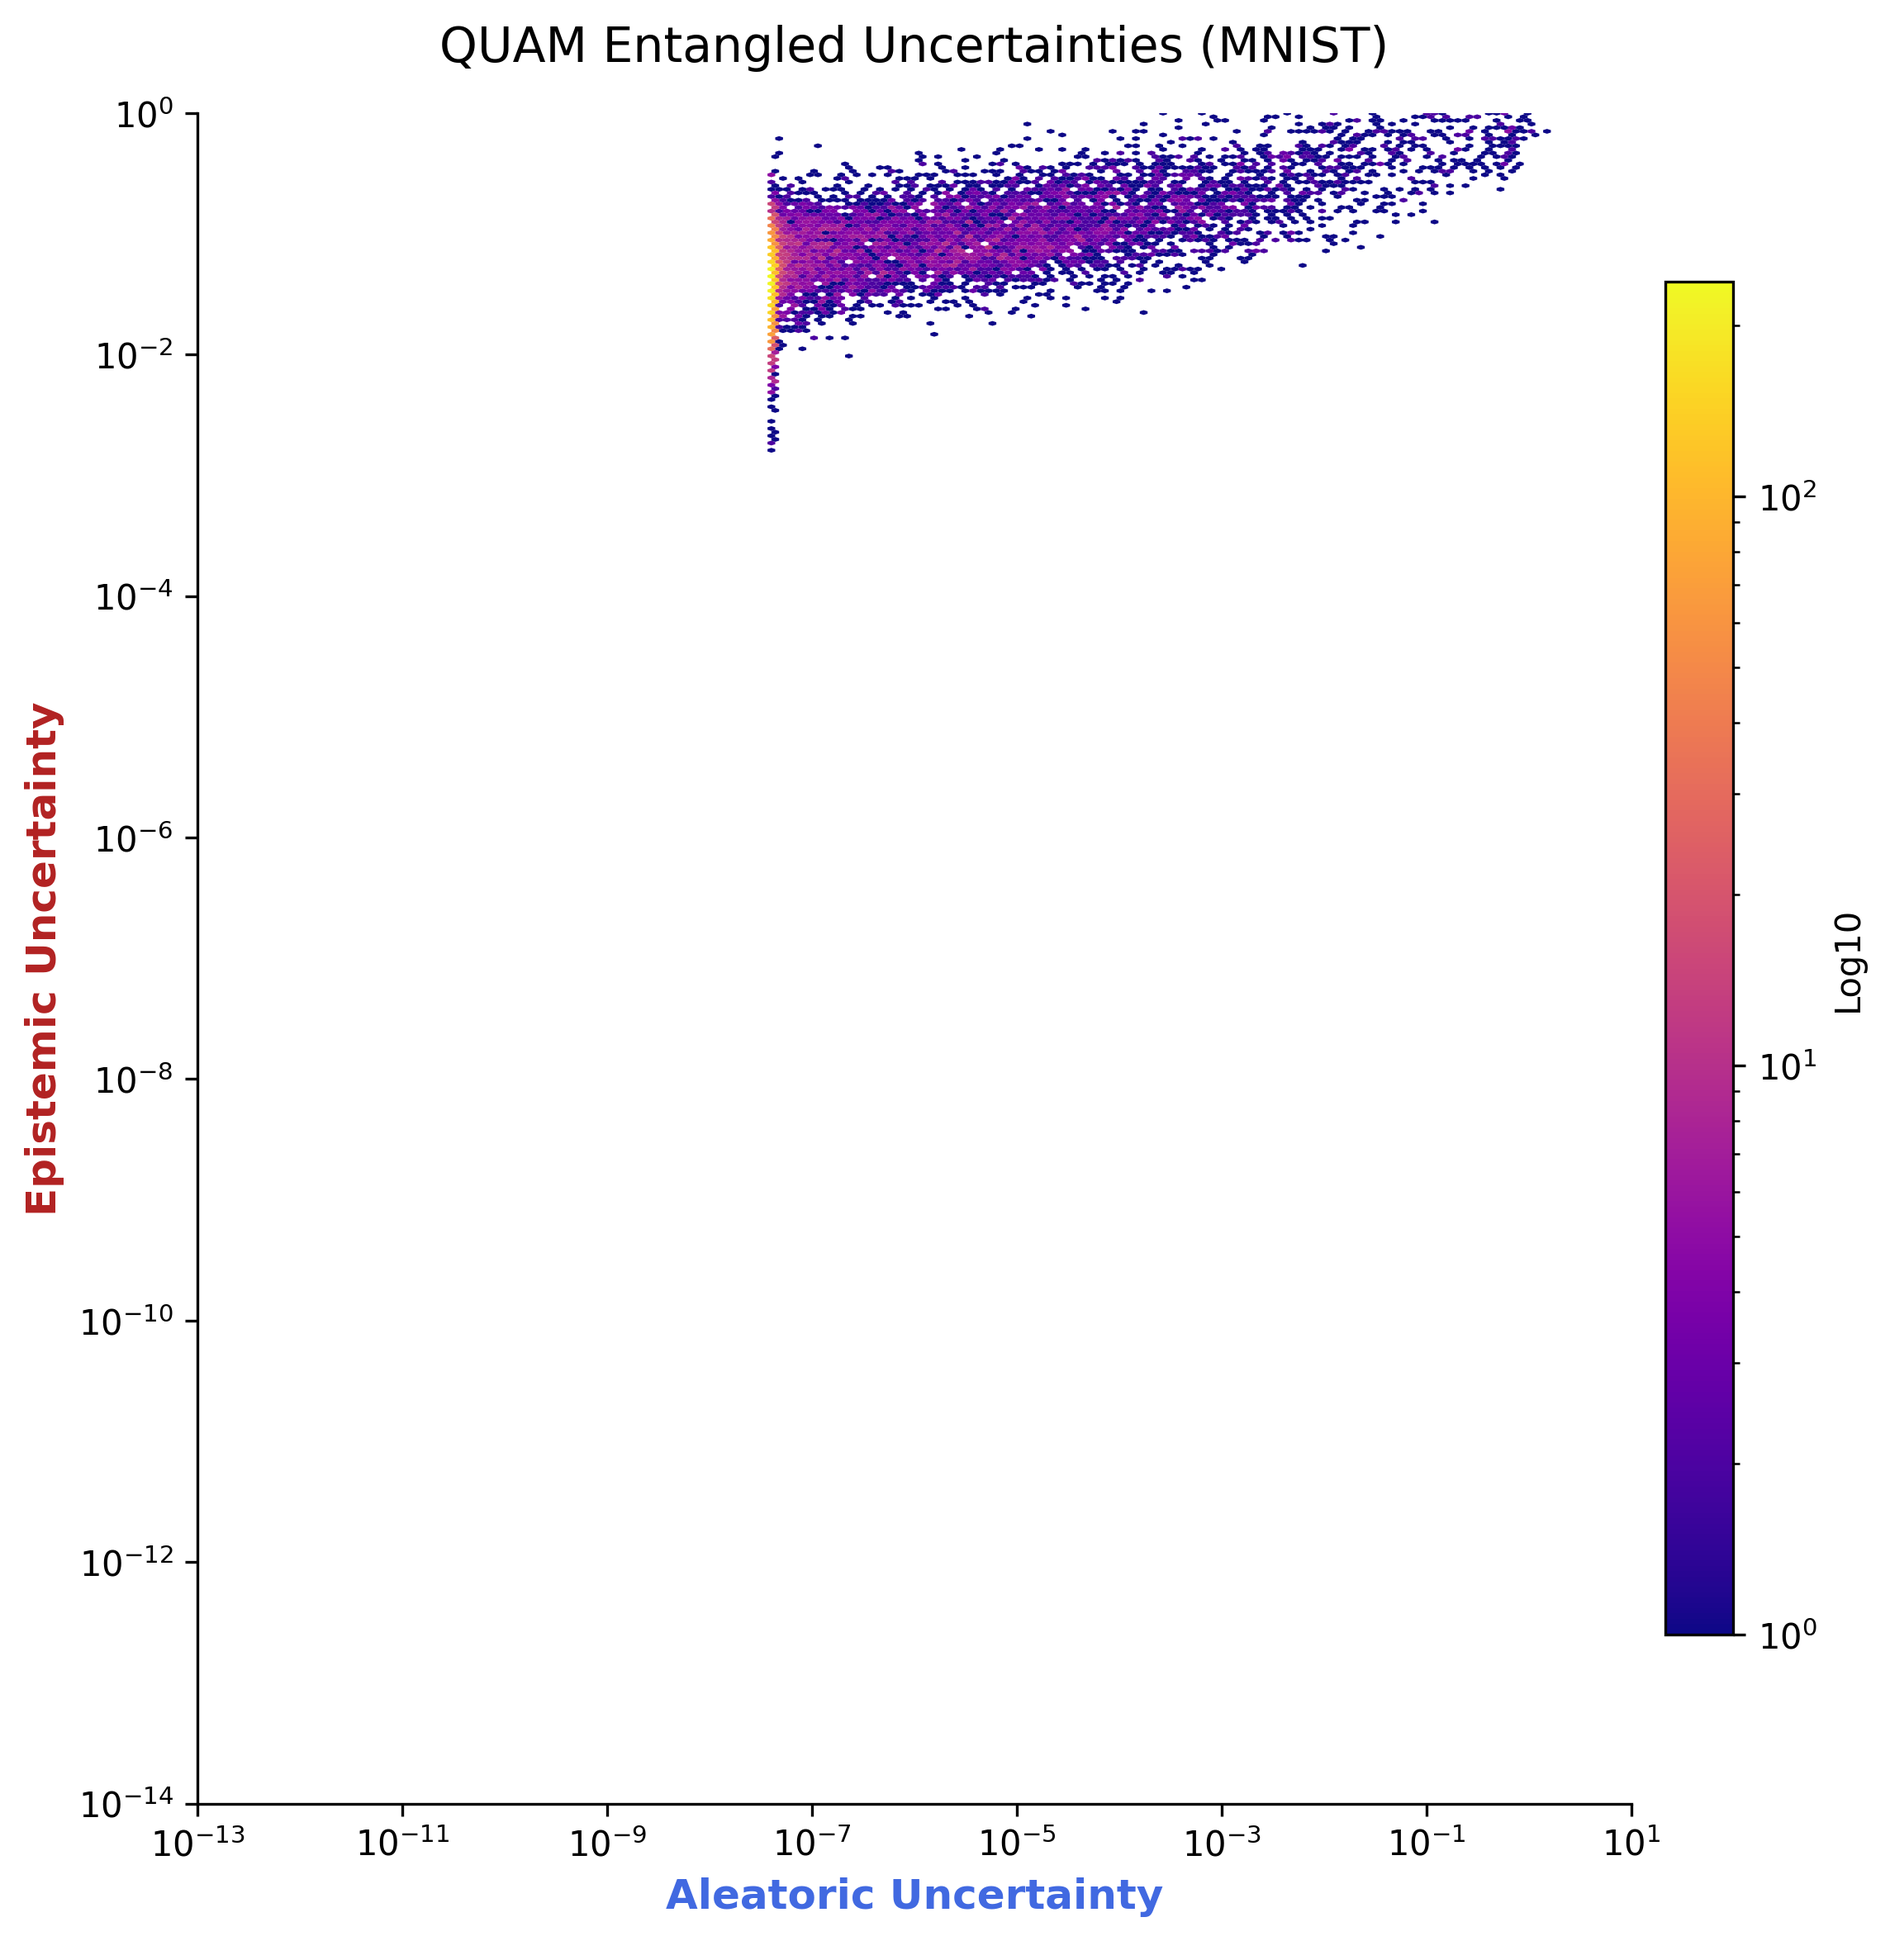
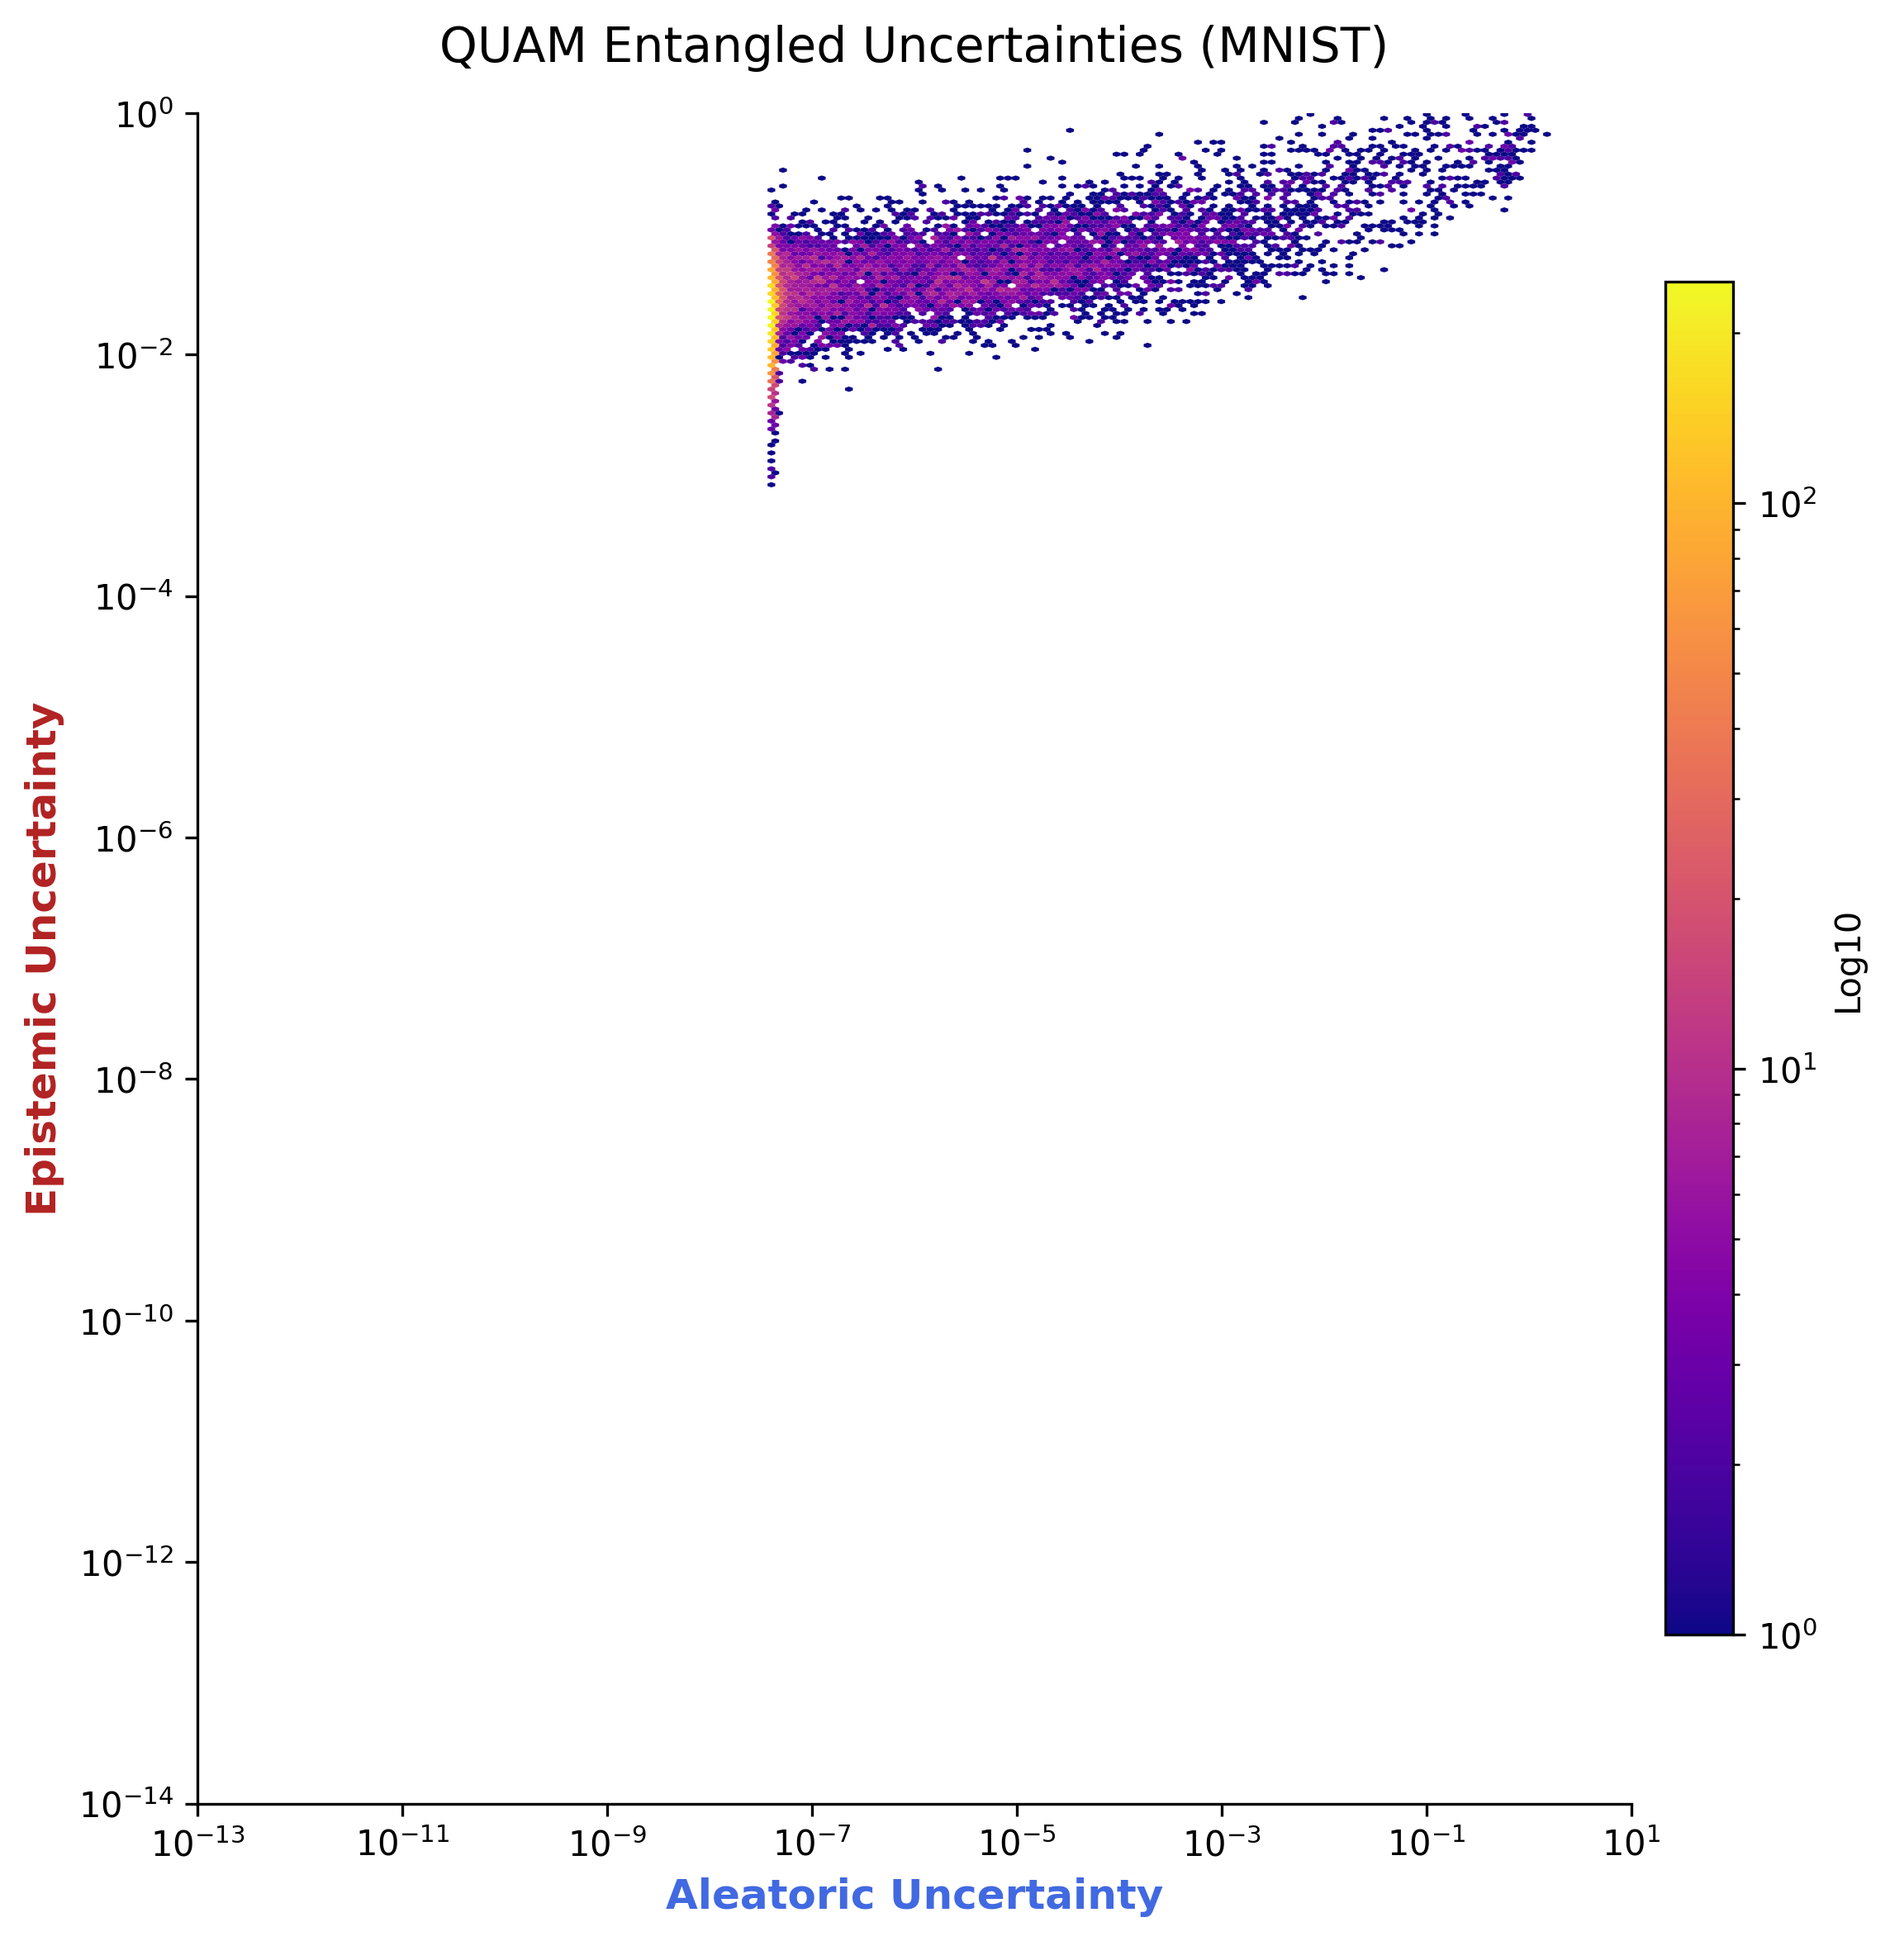
fix: update dataset name to 'emnist' and increase sample size to 1000

Changed region(s): [[0.4034, 0.0621, 0.8068, 0.2485], [0.9309, 0.5281, 0.962, 0.5591], [0.9309, 0.2485, 0.962, 0.2796]]

diff --git a/make_plots.py b/make_plots.py
@@ -14,12 +14,15 @@ from helper_functions import (
 
 #---------------ESTABLISHING-DIRECTORIES----------------------
 
+#takes format: algoname_datasetname_preds.pkl
+#example: mcdo_mnist_preds.pkl
+#example: quam_emnist_preds.pkl
 ALGORITHM_NAME = "quam"
-DATASET_NAME = "mnist"
+DATASET_NAME = "emnist"
 INPUT_FILE = f"data/{ALGORITHM_NAME}_{DATASET_NAME}_preds.pkl"
 RESULTS_DIR = "results"
 MATH_SETTING = "B"
-N_SAMPLES = 100
+N_SAMPLES = 1000
 
 #---------------LOADING-DATA--------------------------------------
 
@@ -32,7 +35,7 @@ avg_pred = torch.as_tensor(data['average_net_pred']) #.to(device)
 samples = torch.as_tensor(data['sample_preds']) #.to(device)
 targets = torch.as_tensor(data['target']) #.to(device)
 
-#----------------NECCESARY-CHECKS----------------------
+#----------------NECCESARY-CHECKS---------------------
 
 # Our functions expects 4D setting, but we have only 3D, 
 # Hence we plug in 1 as second parameter, by telling to create 1 on index 2
